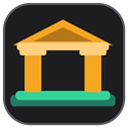
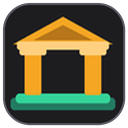
Make the Next Settlement Calc gate taller

Changed region(s): [[0.0625, 0.6875, 0.9062, 0.875], [0.0938, 0.125, 0.875, 0.4062], [0.3438, 0.375, 0.625, 0.4062]]

diff --git a/projects/travian-extensions/README.md b/projects/travian-extensions/README.md
@@ -14,7 +14,7 @@ Eight standalone browser extensions for Travian: forecasting, statistics history
 | <a id="travalarm"></a>[TravAlarm](extensions/travAlarm/) | Incoming attack alerts, game timers and custom reminders | 3.61 |
 | <a id="travian-qol"></a>[Travian QoL](extensions/TravianQoL/) | Farm-list selection, reports and interface utilities | 1.4.2 |
 | <a id="rank-tracker"></a>[Rank Tracker](extensions/TravianRankTracker/) | Rankings, statistics history and comparison graphs | 5.1.7 |
-| <a id="next-settlement-calc"></a>[Next Settlement Calc](extensions/NextSettlementCalc/) | Culture-point forecasts and celebration planning | 2.6.20 |
+| <a id="next-settlement-calc"></a>[Next Settlement Calc](extensions/NextSettlementCalc/) | Culture-point forecasts and celebration planning | 2.6.21 |
 | <a id="npc-automerchant"></a>[Travian NPC Calculator](extensions/automerchant/) | Maximum troop counts and resource splits for the NPC Merchant | 3.2.23 |
 | <a id="night-mode"></a>[Night Mode](extensions/travian_night_mode/) | Persistent dark theme and button colours | 2.6.1 |
 | <a id="world-watch"></a>[World Watch](extensions/WorldWatch/) | World snapshots, spawn map, population gains, alliances and a 15c finder with oasis scoring | 1.7.6 |

diff --git a/projects/travian-extensions/extensions/NextSettlementCalc/README.md b/projects/travian-extensions/extensions/NextSettlementCalc/README.md
@@ -2,7 +2,7 @@
 
 Forecasts settlement culture-point thresholds from observed production and planned celebrations.
 
-**Version 2.6.20 · JavaScript · Manifest V3**
+**Version 2.6.21 · JavaScript · Manifest V3**
 
 [Usage guide](../../docs/USAGE.md#next-settlement-calc) · [Installation](../../README.md#install-in-brave-chrome-or-edge) · [All extensions](../../README.md)
 

diff --git a/projects/travian-extensions/CHANGELOG.md b/projects/travian-extensions/CHANGELOG.md
@@ -1,5 +1,9 @@
 # Changelog
 
+## Next Settlement Calc 2.6.21 — 2026-11-20
+
+- Makes the gate icon slightly taller while keeping its width.
+
 ## Larger Next Settlement Calc icon — 2026-11-20
 
 - Enlarges the gate artwork to match World Watch at toolbar size.
